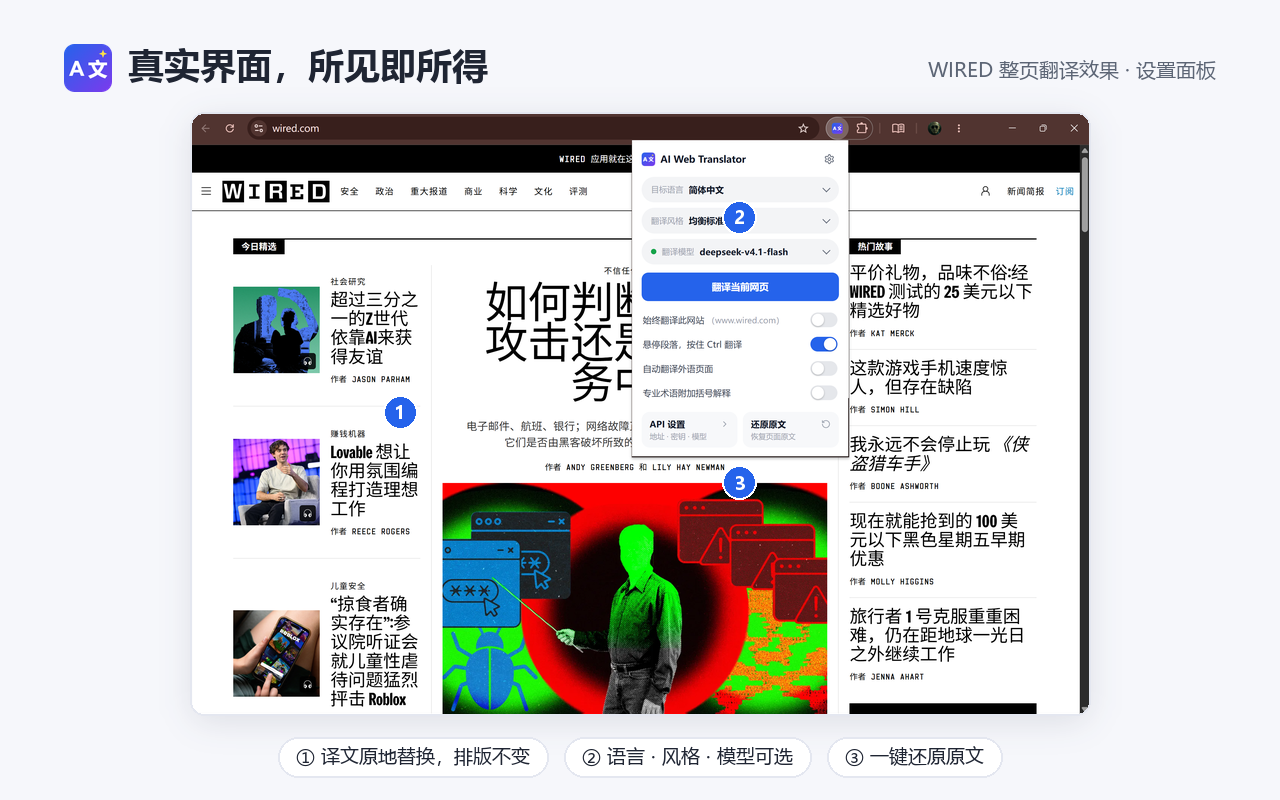
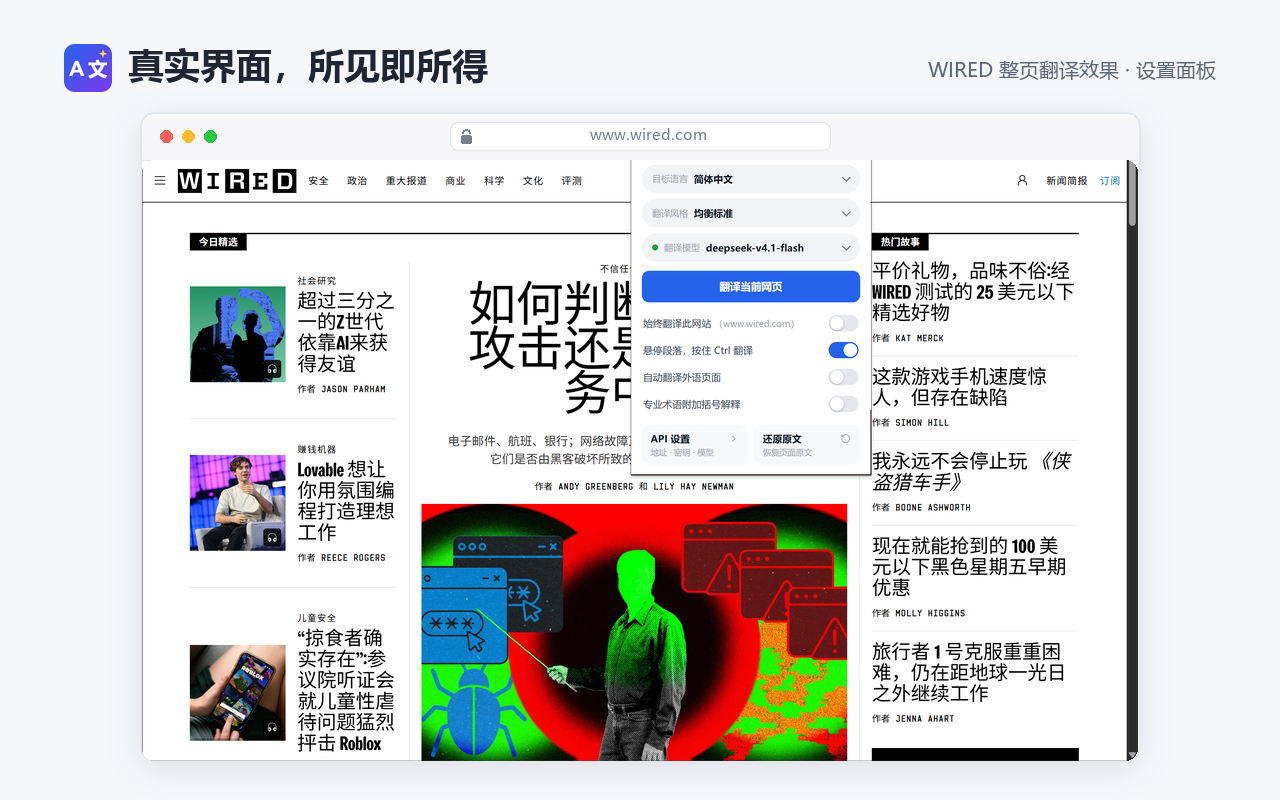
refactor: tile 3 uses Mac-style browser frame, drop numbered annotations

Changed region(s): [[0.125, 0.125, 0.9062, 0.9688]]

diff --git a/make_promo_tile3.py b/make_promo_tile3.py
@@ -1,8 +1,10 @@
 # -*- coding: utf-8 -*-
-"""生成 Chrome 应用商店宣传图块 3（写实界面展示）：
-promo_tile_3_1280x800.png —— 真实 WIRED 整页翻译截图（含设置面板）+ ①②③ 标注与图例。
+"""生成 Chrome 应用商店宣传图块 3（写实界面展示，Mac 风格浏览器边框）：
+promo_tile_3_1280x800.png —— WIRED 整页中文翻译截图（含设置面板），
+裁去源图自带的 Chrome 工具栏（y<202），改绘 macOS 风格窗框：
+红黄绿信号灯 + 居中地址栏。无标注、无图例。
 1280x800、24 位 RGB PNG（无 alpha）。素材：素材/ScreenShot_2026-11-18_215048_660.png
-（经 OCR 确认为 www.wired.com 中文译文页，面板位于源图 x≈1472–2194, y≈215–1300）。
+（经 OCR 确认为 www.wired.com 中文译文页）。
 """
 import os
 from PIL import Image, ImageDraw, ImageFilter, ImageFont
@@ -15,14 +17,18 @@ OUT = os.path.join(BASE, "store_assets")
 FONT_BOLD = "C:/Windows/Fonts/msyhbd.ttc"
 FONT_REG = "C:/Windows/Fonts/msyh.ttc"
 
-C1 = (37, 99, 235)
 BG = (246, 247, 251)
 CARD = (255, 255, 255)
 BORDER = (228, 231, 240)
 INK = (31, 37, 51)
 GRAY = (92, 101, 117)
+TOOLBAR = (246, 246, 248)
+URL_BORDER = (226, 228, 234)
+URL_TEXT = (120, 127, 140)
+DOTS = ((255, 95, 87), (254, 188, 46), (40, 200, 64))
 
 W, H = 1280, 800
+PAGE_TOP = 202  # 源图中 Chrome 工具栏结束、页面开始的行
 
 
 def font(path, size):
@@ -66,50 +72,45 @@ f_sub = font(FONT_REG, 20)
 sub = "WIRED 整页翻译效果 · 设置面板"
 text(d, (W - 64 - text_w(d, sub, f_sub), 60), sub, f_sub, GRAY)
 
-# 中央真实截图（等比缩放，圆角卡片）
+# 页面内容（裁去源图 Chrome 工具栏）
 shot = Image.open(SHOT).convert("RGB")
-orig_w = shot.width
-sw = 900
-sh = round(shot.height * sw / orig_w)
-shot = shot.resize((sw, sh), Image.LANCZOS)
-sx, sy = (W - sw) // 2, 112
-soft_shadow(img, (sx, sy, sw, sh), 14)
+shot = shot.crop((0, PAGE_TOP, shot.width, shot.height))
+
+# Mac 风格窗框
+fw = 1000
+bar_h = 48
+inner_w = fw - 4
+content_h = round(shot.height * inner_w / shot.width)
+fh = bar_h + content_h
+fx, fy = (W - fw) // 2, 112
+shot = shot.resize((inner_w, content_h), Image.LANCZOS)
+
+soft_shadow(img, (fx, fy, fw, fh), 14)
 d = ImageDraw.Draw(img)
-img.paste(shot, (sx, sy), rounded_mask((sw, sh), 14))
-d.rounded_rectangle([sx, sy, sx + sw, sy + sh], 14, outline=BORDER, width=2)
-
-# 标注点：源图坐标 -> 缩放后坐标
-scale = sw / orig_w
-marks = [
-    ("1", (700, 1000)),    # 译文正文
-    ("2", (1830, 350)),    # 面板：语言/风格/模型
-    ("3", (1830, 1235)),   # 面板：还原原文
-]
-f_num = font(FONT_BOLD, 19)
-for num, (ox, oy) in marks:
-    cx, cy = sx + ox * scale, sy + oy * scale
-    r = 15
-    d.ellipse([cx - r - 2, cy - r - 2, cx + r + 2, cy + r + 2], fill=CARD)
-    d.ellipse([cx - r, cy - r, cx + r, cy + r], fill=C1)
-    bb = d.textbbox((0, 0), num, font=f_num)
-    d.text((cx - (bb[2] - bb[0]) / 2 - bb[0], cy - (bb[3] - bb[1]) / 2 - bb[1]),
-           num, font=f_num, fill=CARD)
-
-# 底部图例
-f_leg = font(FONT_REG, 19)
-legs = ("① 译文原地替换，排版不变", "② 语言 · 风格 · 模型可选", "③ 一键还原原文")
-pads = 18
-widths = [text_w(d, s, f_leg) + pads * 2 for s in legs]
-total = sum(widths) + 16 * (len(legs) - 1)
-lx = (W - total) // 2
-ly = sy + sh + 22
-for s, w in zip(legs, widths):
-    d.rounded_rectangle([lx, ly, lx + w, ly + 40], 20, fill=CARD, outline=BORDER, width=2)
-    text(d, (lx + pads, ly + 9), s, f_leg, INK)
-    lx += w + 16
+d.rounded_rectangle([fx, fy, fx + fw, fy + fh], 14, fill=CARD, outline=BORDER, width=2)
+# 工具栏（上圆角、下直角）
+d.rounded_rectangle([fx + 2, fy + 2, fx + fw - 2, fy + bar_h], 12, fill=TOOLBAR)
+d.rectangle([fx + 2, fy + 30, fx + fw - 2, fy + bar_h], fill=TOOLBAR)
+d.line([fx + 2, fy + bar_h, fx + fw - 2, fy + bar_h], fill=BORDER, width=1)
+# 红黄绿信号灯
+for i, c in enumerate(DOTS):
+    cx, cy, r = fx + 26 + i * 22, fy + bar_h // 2, 6
+    d.ellipse([cx - r, cy - r, cx + r, cy + r], fill=c)
+# 居中地址栏 + 小锁
+pw, ph = 380, 28
+px0, py0 = fx + (fw - pw) // 2, fy + (bar_h - ph) // 2
+d.rounded_rectangle([px0, py0, px0 + pw, py0 + ph], 8, fill=CARD, outline=URL_BORDER, width=1)
+lx, ly = px0 + 16, py0 + ph // 2
+d.rounded_rectangle([lx - 5, ly - 1, lx + 5, ly + 7], 2, fill=URL_TEXT)
+d.arc([lx - 4, ly - 7, lx + 4, ly + 1], start=180, end=360, fill=URL_TEXT, width=2)
+f_url = font(FONT_REG, 15)
+url = "www.wired.com"
+text(d, (px0 + (pw - text_w(d, url, f_url)) / 2 + 8, py0 + 6), url, f_url, URL_TEXT)
+# 页面内容（底部圆角贴合窗框）
+img.paste(shot, (fx + 2, fy + bar_h), rounded_mask((inner_w, content_h), 12))
 
 p = os.path.join(OUT, "promo_tile_3_1280x800.png")
 img.convert("RGB").save(p, "PNG")
 with Image.open(p) as im:
     print(os.path.basename(p), im.size, im.mode, os.path.getsize(p), "bytes")
-print("screenshot box:", (sx, sy, sw, sh), "legend bottom:", ly + 40)
+print("frame box:", (fx, fy, fw, fh), "bottom:", fy + fh)
